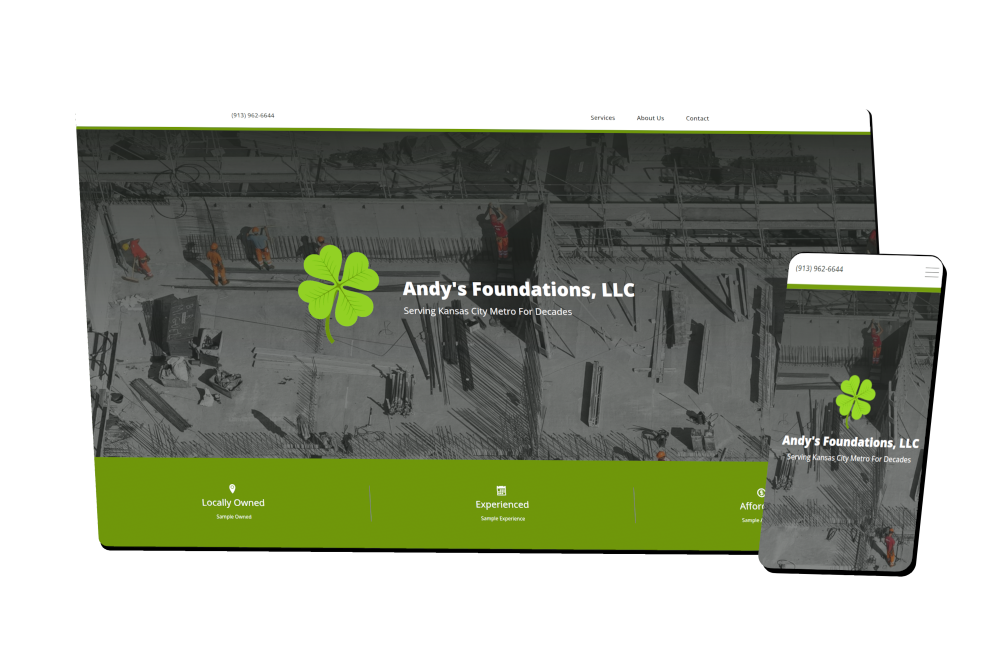
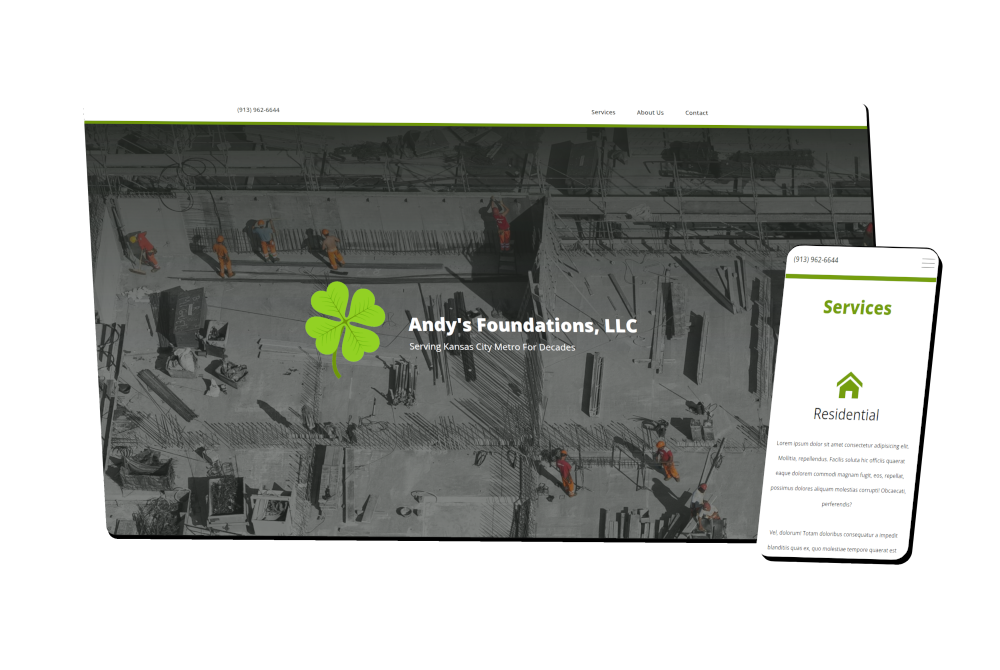
changed andy project image and gradient

Changed region(s): [[0.062, 0.1493, 0.961, 0.8657]]

diff --git a/css/style.css b/css/style.css
@@ -1,1 +1,1 @@
-*,*::before,*::after{margin:0;padding:0;box-sizing:inherit}html{box-sizing:border-box;font-size:62.5%}@media only screen and (max-width: 87.5em){html{font-size:50%}}body{background-color:#f5f5f9;font-family:"Open Sans",sans-serif;line-height:1.6;width:100vw;overflow-x:hidden}li{list-style:none}a{text-decoration:none}::-moz-selection{background-color:#5d0d6e;color:#fff}::selection{background-color:#5d0d6e;color:#fff}.btn{cursor:pointer;width:auto;text-transform:uppercase;text-decoration:none;border:none;transition:all .2s}.btn-work{padding:1.8rem 3rem;letter-spacing:.25rem;text-align:center;font-size:1.5rem;font-weight:600;background-color:#8c13a4;color:#ebebeb;box-shadow:0 .8rem 2.5rem rgba(0, 0, 0, 0.25);border-radius:5rem;transition:all .2s}@media only screen and (max-width: 56.25em){.btn-work{padding:1.8rem 3rem;letter-spacing:0;font-size:1.2rem;font-weight:400}}.btn-contact{padding:1.2rem 2rem;margin:-1.2rem -2rem;text-align:center;box-shadow:0 .8rem 2.5rem rgba(0, 0, 0, 0.25);border-radius:5rem;transition:all .2s}.btn-contact,.btn-contact:link,.btn-contact:visited{background-color:#8c13a4;color:#ebebeb}@media only screen and (max-width: 87.5em){.btn-contact{margin-left:-1.2rem}}@media only screen and (max-width: 37.5em){.btn-contact{padding:0;margin:0}.btn-contact,.btn-contact:link,.btn-contact:visited{background-color:transparent;color:#5d0d6e !important;box-shadow:none;border-radius:0}.btn-contact:hover{transform:none}}.btn-contact:hover{transform:scale(1.1)}.btn:hover{transform:scale(1.05)}@keyframes moveInLeft{0%{opacity:0;transform:translateX(-5rem)}100%{opacity:1;transform:translateX(0)}}.header{display:flex;justify-content:center;position:fixed;width:100%;z-index:200;text-decoration:none;background-color:#f5f5f9}@media only screen and (max-width: 37.5em){.header{z-index:10}}.header-box{display:flex;justify-content:space-between;width:70%}@media only screen and (max-width: 75em){.header-box{width:100%}}@media only screen and (max-width: 37.5em){.header-box{background-color:#f5f5f9}}.header__logo{cursor:pointer;display:flex;align-items:center;height:7rem;width:7rem;margin:1.5rem 0 .5rem;z-index:200;text-decoration:none;font-size:2.5rem;background-image:url(../img/logo_black.png);background-size:cover;background-position:top;transition:all .3s}@media only screen and (max-width: 75em){.header__logo{margin-left:1rem}}@media only screen and (max-width: 37.5em){.header__logo{height:5rem;width:5rem}}.header__logo:hover{transform:scale(1.05)}.header__nav{display:flex;align-items:center;margin:0 10rem}@media only screen and (max-width: 75em){.header__nav{margin:0 1rem}}@media only screen and (max-width: 37.5em){.header__nav{flex-direction:column;justify-content:space-around;position:fixed;width:110%;top:-30%;left:-5%;height:28rem;z-index:-1;text-align:center;font-weight:300;background-color:#fff;box-shadow:0 10px 27px rgba(0, 0, 0, 0.05);border-bottom:1px solid #d6d6d6;transition:.6s ease}.header__nav.active{top:7rem}}@media only screen and (max-width: 25em){.header__nav{height:22rem}}@media only screen and (max-width: 75em){.header__nav * button{margin-right:3rem}}@media only screen and (max-width: 37.5em){.header__nav * button{margin-right:0;margin-left:0}}.header__nav * a{margin-right:6rem;font-size:1.4rem;transition:all .1s;color:#8c13a4}@media only screen and (max-width: 56.25em){.header__nav * a{margin-right:3rem}}@media only screen and (max-width: 37.5em){.header__nav * a{width:100%;margin:auto;color:#5d0d6e;font-size:2.5rem}}.header__hamburger{display:none}@media only screen and (max-width: 37.5em){.header__hamburger{cursor:pointer;display:block;margin:auto 2rem;z-index:20}}.header__hamburger .bar{display:block;width:4rem;height:1px;margin:8px auto;background-color:#16031a;transition:all .3s ease-in-out}.header__hamburger.active .bar:nth-child(2){opacity:0}.header__hamburger.active .bar:nth-child(1){transform:translateY(9px) rotate(45deg)}.header__hamburger.active .bar:nth-child(3){transform:translateY(-9px) rotate(-45deg)}.header-scrolled{border-bottom:1px solid #d6d6d6}.hero{display:flex;justify-content:center;align-items:center;height:100vh;width:100%;background-color:#f5f5f9}@media only screen and (max-width: 87.5em){.hero{flex-direction:column-reverse;height:100vh}}.hero-left{display:flex;flex-direction:column;justify-content:center;align-items:flex-end;height:100%;width:55%}@media only screen and (max-width: 87.5em){.hero-left{align-items:center;width:100%;height:35vh}}@media only screen and (max-width: 37.5em){.hero-left{justify-content:start}}.hero-right{display:flex;flex-direction:column;justify-content:center;align-items:center;height:100%;width:45%;padding:6rem}@media only screen and (max-width: 87.5em){.hero-right{justify-content:center;padding:0 6rem;min-height:80rem;height:auto;width:100%}}@media only screen and (max-width: 37.5em){.hero-right{justify-content:center;padding:0 3rem;min-height:50rem;height:65vh;width:100%}}.hero__title{margin:4rem 0;text-align:right;font-size:6rem;font-weight:300;text-align:right;letter-spacing:.8rem;line-height:1;color:#16031a;animation:moveInLeft .8s ease-out}@media only screen and (max-width: 87.5em){.hero__title{text-align:center}}@media only screen and (max-width: 37.5em){.hero__title{margin:0 0 2rem;font-size:3.6rem;letter-spacing:.5rem}}@media only screen and (max-width: 25em){.hero__title{font-size:3rem;letter-spacing:.4rem}}.hero__subtitle{text-align:right;font-size:2.2rem;font-weight:400;letter-spacing:.2rem;line-height:1;color:#16031a;animation:moveInLeft .8s ease-out .8s;animation-fill-mode:backwards}@media only screen and (max-width: 87.5em){.hero__subtitle{margin:0 1rem;text-align:center}}@media only screen and (max-width: 37.5em){.hero__subtitle{font-size:1.3rem;font-weight:300;letter-spacing:.1rem}}@media only screen and (max-width: 25em){.hero__subtitle{font-size:1.1rem}}.hero__image{height:100%;background-image:url(../img/forest-day2x.png);background-size:contain;background-repeat:no-repeat;background-position:center}@media only screen and (max-width: 87.5em){.hero__image{background-position:center}}@media only screen and (max-width: 37.5em){.hero__image{background-image:url(../img/forest-day1x.png);background-position:bottom center}}.hero__image-box{width:100%;height:100%;padding:6rem 0 3rem}.projects{display:flex;justify-content:center;align-items:center;width:100%;margin:auto;padding:10vh 0}@media only screen and (max-width: 37.5em){.projects{padding:0}}.projects__box{width:60%}@media only screen and (max-width: 56.25em){.projects__box{width:100%;padding:0 2rem}}.projects__card{display:flex;background-color:white;border-radius:12px}.projects__card:not(:last-child){margin-bottom:16rem}@media only screen and (max-width: 37.5em){.projects__card{flex-direction:column}.projects__card:not(:last-child){margin-bottom:6rem}.projects__card:nth-child(2n+1){flex-direction:column-reverse}}.projects__description{width:50%;padding:9.5rem 5rem}@media only screen and (max-width: 56.25em){.projects__description{padding:0;margin:0}}@media only screen and (max-width: 37.5em){.projects__description{width:100%}}.projects__details{display:flex;flex-direction:column;justify-content:space-between;height:100%}@media only screen and (max-width: 56.25em){.projects__details{justify-content:space-evenly}}.projects__details h3{font-size:3.6rem;font-weight:600;letter-spacing:.2rem;color:#16031a}.projects__details h4{margin-bottom:3rem;font-size:1.8rem;font-weight:400;letter-spacing:.2rem;color:#16031a}.projects__details p{font-size:1.4rem;font-weight:200;color:#525252}.projects__title{text-align:center}@media only screen and (max-width: 37.5em){.projects__title{padding-top:4rem}}.projects__image-box{display:flex;position:relative;height:50rem;width:50%;overflow:hidden}@media only screen and (max-width: 37.5em){.projects__image-box{height:32rem;width:100%;margin:auto;border-radius:12px 12px 0 0 !important}}.projects__image-box:nth-child(2n){border-radius:0 12px 12px 0}.projects__image-box:nth-child(2n+1){border-radius:12px 0 0 12px}.projects__image-box:nth-child(2n+1)::before{transform:rotate(180deg)}.projects__image-box::before{content:"";position:absolute;width:100%;height:100%;top:0;right:0;z-index:0;background-image:url(../img/project-pattern.png);background-repeat:no-repeat;background-size:cover;overflow:hidden}.projects__image-box img{z-index:2;width:100%;margin:auto}.projects-buttons{display:flex;flex-direction:column;align-self:center;width:75%}@media only screen and (max-width: 37.5em){.projects-buttons{padding:6rem 0}}.bg-blue{background:linear-gradient(to right, rgb(110, 123, 251), rgb(65, 228, 220))}.bg-green{background:linear-gradient(to right, #18a848, #169960)}.bg-teal{background:linear-gradient(to right, rgb(55, 168, 192), rgb(103, 187, 125))}.revealRight{transform:translateX(15rem);opacity:0;transition:1s all ease}.revealLeft{transform:translateX(-15rem);opacity:0;transition:1s all ease}.revealRight.active,.revealLeft.active{transform:translateY(0);opacity:1}.contact{display:flex;justify-content:center;width:100%;margin:auto}.contact__container{display:flex;justify-content:space-between;width:70%;margin:0 5rem;padding:15vh 0}@media only screen and (max-width: 75em){.contact__container{width:100%}}@media only screen and (max-width: 56.25em){.contact__container{flex-direction:column}}@media only screen and (max-width: 37.5em){.contact__container{height:100vh}}.contact__container-left{flex:1 1 50%;display:flex;flex-direction:column}.contact__container-right{flex:1 1 50%;display:flex;flex-direction:column;align-items:flex-end}.contact-socials{display:flex}.contact-socials a:not(:last-child){margin-right:2rem}.contact-svg{height:3.6rem;margin:1rem 0;transition:all .1s}.contact-svg:hover{scale:1.1}.contact-header h2{margin-bottom:2rem;font-size:3rem;color:#5d0d6e}.contact-header h3{margin-top:6rem;font-size:1.4rem;color:#5d0d6e}.contact-header p{margin:.2rem 6rem 1rem 0;font-size:2rem;font-weight:300}@media only screen and (max-width: 56.25em){.contact-header p{margin:.5rem 0 2rem;font-size:1.6rem}}.contact-form{display:flex;flex-direction:column;width:50rem}@media only screen and (max-width: 56.25em){.contact-form{width:100%}}.contact-form label{font-size:1.5rem}.contact-form input{padding:.8rem;margin-bottom:2rem;border:1px solid #525252;border-radius:5px}.contact-form input:focus{border:1px solid #525252}.contact-form textarea{padding:.8rem;border:1px solid #525252;border-radius:5px}.contact-form textarea:focus{border:1px solid #525252}.contact-form button{margin-top:2rem;border-radius:5px}.footer{display:flex;justify-content:center;background-color:#f5f5f9;color:#16031a}.footer-box{display:flex;justify-content:flex-end;align-items:center;width:70%;margin:2rem 0}@media only screen and (max-width: 75em){.footer-box{width:100%}}.footer__logo-box{height:4rem;width:4rem;margin-left:2rem;text-align:center;background-image:url(../img/logo_tree-dark.png);background-size:cover;background-position:top}@media only screen and (max-width: 56.25em){.footer__logo-box{width:3rem;height:3rem;margin-right:2rem}}.footer__copyright{text-align:center;font-size:1.3rem;color:#16031a}@media only screen and (max-width: 56.25em){.footer__copyright{font-size:1rem}}.toggle-wrapper{background-color:inherit;border:none}.toggle-wrapper .toggle{display:none}.toggle-wrapper .toggle+.toggle-btn{cursor:pointer;-webkit-user-select:none;-moz-user-select:none;user-select:none;display:block;width:8rem;height:4rem;position:relative;outline:0}@media only screen and (max-width: 37.5em){.toggle-wrapper .toggle+.toggle-btn{width:14rem}}.toggle-wrapper .toggle+.toggle-btn:after,.toggle-wrapper .toggle+.toggle-btn:before{content:"";display:block;position:relative;width:50%;height:100%}.toggle-wrapper .toggle+.toggle-btn:after{left:0}.toggle-wrapper .toggle+.toggle-btn:before{display:none}.toggle-wrapper .toggle:checked+.toggle-btn:after{left:50%}.toggle-wrapper .toggle-skewed+.toggle-btn{overflow:hidden;-webkit-backface-visibility:hidden;backface-visibility:hidden;font-family:sans-serif;background:#8c13a4;transform:skew(-10deg);transition:all .2s ease}.toggle-wrapper .toggle-skewed+.toggle-btn:after,.toggle-wrapper .toggle-skewed+.toggle-btn:before{display:inline-block;position:absolute;width:100%;line-height:4rem;text-align:center;font-weight:bold;transform:skew(10deg);text-shadow:0 1px 0 rgba(0, 0, 0, 0.4);transition:all .2s ease}.toggle-wrapper .toggle-skewed+.toggle-btn:after{content:attr(data-tg-on);left:100%;font-weight:normal;color:#8c13a4}@media only screen and (max-width: 37.5em){.toggle-wrapper .toggle-skewed+.toggle-btn:after{font-size:2.5rem;font-weight:300}}.toggle-wrapper .toggle-skewed+.toggle-btn:before{content:attr(data-tg-off);left:0;color:#ebebeb}@media only screen and (max-width: 37.5em){.toggle-wrapper .toggle-skewed+.toggle-btn:before{font-weight:normal;font-size:2.5rem;font-weight:300}}.toggle-wrapper .toggle-skewed+.toggle-btn:active{background:#8c13a4}.toggle-wrapper .toggle-skewed+.toggle-btn:active:before{left:-10%}.toggle-wrapper .toggle-skewed:checked+.toggle-btn{background:#f5f5f9}.toggle-wrapper .toggle-skewed:checked+.toggle-btn:before{left:-100%}.toggle-wrapper .toggle-skewed:checked+.toggle-btn:after{left:0}.toggle-wrapper .toggle-skewed:checked+.toggle-btn:active:after{left:10%}.toggle-wrapper .toggle,.toggle-wrapper .toggle:after,.toggle-wrapper .toggle:before,.toggle-wrapper .toggle *,.toggle-wrapper .toggle *:after,.toggle-wrapper .toggle *:before,.toggle-wrapper .toggle+.toggle-btn{box-sizing:border-box}.toggle-wrapper .toggle::-moz-selection,.toggle-wrapper .toggle:after::-moz-selection,.toggle-wrapper .toggle:before::-moz-selection,.toggle-wrapper .toggle *::-moz-selection,.toggle-wrapper .toggle *:after::-moz-selection,.toggle-wrapper .toggle *:before::-moz-selection,.toggle-wrapper .toggle+.toggle-btn::-moz-selection{background:none}.toggle-wrapper .toggle::selection,.toggle-wrapper .toggle:after::selection,.toggle-wrapper .toggle:before::selection,.toggle-wrapper .toggle *::selection,.toggle-wrapper .toggle *:after::selection,.toggle-wrapper .toggle *:before::selection,.toggle-wrapper .toggle+.toggle-btn::selection{background:none}body.dark-mode{background-color:#16031a;color:#ebebeb}body.dark-mode .header{background-color:#16031a;color:#ebebeb}@media only screen and (max-width: 37.5em){body.dark-mode .header-box{background-color:#16031a}}body.dark-mode .header__logo{background-image:url(../img/logo_white.png)}@media only screen and (max-width: 37.5em){body.dark-mode .header__nav{background-color:#3a2d3d;box-shadow:0 1rem 2rem rgba(0, 0, 0, 0.35);border-bottom:1px solid #525252}}body.dark-mode .header a{color:#ebebeb}body.dark-mode .header__hamburger .bar{background-color:#ebebeb}body.dark-mode .header-scrolled{border-bottom:1px solid #525252}body.dark-mode .hero{background-color:#16031a}body.dark-mode .hero__title{color:#f5f5f9}body.dark-mode .hero__subtitle{color:#ebebeb}body.dark-mode .hero__image{background-image:url(../img/forest-night2x.png)}@media only screen and (max-width: 37.5em){body.dark-mode .hero__image{background-image:url(../img/forest-night1x.png)}}body.dark-mode .contact{background-color:#16031a}body.dark-mode .contact-svg{filter:invert(1)}body.dark-mode .contact-header h2{color:#c524e5}body.dark-mode .contact-header h3{color:#c524e5}body.dark-mode .projects__card{background-color:#3a2d3d}body.dark-mode .projects__details h3{color:#f5f5f9}body.dark-mode .projects__details h4{color:#f5f5f9}body.dark-mode .projects__details p{color:#f5f5f9}body.dark-mode .footer{background-color:#16031a;color:#ebebeb}body.dark-mode .footer__logo-box{background-image:url(../img/logo_tree-light.png)}body.dark-mode .footer__copyright{color:#ebebeb}body.dark-mode .btn-contact{background-color:#5d0d6e;color:#ebebeb}@media only screen and (max-width: 37.5em){body.dark-mode .btn-contact{background-color:transparent;color:#ebebeb !important}}body.dark-mode ::-moz-selection{color:#16031a;background-color:#ebebeb}body.dark-mode ::selection{color:#16031a;background-color:#ebebeb}/*# sourceMappingURL=style.css.map */
+*,*::before,*::after{margin:0;padding:0;box-sizing:inherit}html{box-sizing:border-box;font-size:62.5%}@media only screen and (max-width: 87.5em){html{font-size:50%}}body{background-color:#f5f5f9;font-family:"Open Sans",sans-serif;line-height:1.6;width:100vw;overflow-x:hidden}li{list-style:none}a{text-decoration:none}::-moz-selection{background-color:#5d0d6e;color:#fff}::selection{background-color:#5d0d6e;color:#fff}.btn{cursor:pointer;width:auto;text-transform:uppercase;text-decoration:none;border:none;transition:all .2s}.btn-work{padding:1.8rem 3rem;letter-spacing:.25rem;text-align:center;font-size:1.5rem;font-weight:600;background-color:#8c13a4;color:#ebebeb;box-shadow:0 .8rem 2.5rem rgba(0, 0, 0, 0.25);border-radius:5rem;transition:all .2s}@media only screen and (max-width: 56.25em){.btn-work{padding:1.8rem 3rem;letter-spacing:0;font-size:1.2rem;font-weight:400}}.btn-contact{padding:1.2rem 2rem;margin:-1.2rem -2rem;text-align:center;box-shadow:0 .8rem 2.5rem rgba(0, 0, 0, 0.25);border-radius:5rem;transition:all .2s}.btn-contact,.btn-contact:link,.btn-contact:visited{background-color:#8c13a4;color:#ebebeb}@media only screen and (max-width: 87.5em){.btn-contact{margin-left:-1.2rem}}@media only screen and (max-width: 37.5em){.btn-contact{padding:0;margin:0}.btn-contact,.btn-contact:link,.btn-contact:visited{background-color:transparent;color:#5d0d6e !important;box-shadow:none;border-radius:0}.btn-contact:hover{transform:none}}.btn-contact:hover{transform:scale(1.1)}.btn:hover{transform:scale(1.05)}@keyframes moveInLeft{0%{opacity:0;transform:translateX(-5rem)}100%{opacity:1;transform:translateX(0)}}.header{display:flex;justify-content:center;position:fixed;width:100%;z-index:200;text-decoration:none;background-color:#f5f5f9}@media only screen and (max-width: 37.5em){.header{z-index:10}}.header-box{display:flex;justify-content:space-between;width:70%}@media only screen and (max-width: 75em){.header-box{width:100%}}@media only screen and (max-width: 37.5em){.header-box{background-color:#f5f5f9}}.header__logo{cursor:pointer;display:flex;align-items:center;height:7rem;width:7rem;margin:1.5rem 0 .5rem;z-index:200;text-decoration:none;font-size:2.5rem;background-image:url(../img/logo_black.png);background-size:cover;background-position:top;transition:all .3s}@media only screen and (max-width: 75em){.header__logo{margin-left:1rem}}@media only screen and (max-width: 37.5em){.header__logo{height:5rem;width:5rem}}.header__logo:hover{transform:scale(1.05)}.header__nav{display:flex;align-items:center;margin:0 10rem}@media only screen and (max-width: 75em){.header__nav{margin:0 1rem}}@media only screen and (max-width: 37.5em){.header__nav{flex-direction:column;justify-content:space-around;position:fixed;width:110%;top:-30%;left:-5%;height:28rem;z-index:-1;text-align:center;font-weight:300;background-color:#fff;box-shadow:0 10px 27px rgba(0, 0, 0, 0.05);border-bottom:1px solid #d6d6d6;transition:.6s ease}.header__nav.active{top:7rem}}@media only screen and (max-width: 25em){.header__nav{height:22rem}}@media only screen and (max-width: 75em){.header__nav * button{margin-right:3rem}}@media only screen and (max-width: 37.5em){.header__nav * button{margin-right:0;margin-left:0}}.header__nav * a{margin-right:6rem;font-size:1.4rem;transition:all .1s;color:#8c13a4}@media only screen and (max-width: 56.25em){.header__nav * a{margin-right:3rem}}@media only screen and (max-width: 37.5em){.header__nav * a{width:100%;margin:auto;color:#5d0d6e;font-size:2.5rem}}.header__hamburger{display:none}@media only screen and (max-width: 37.5em){.header__hamburger{cursor:pointer;display:block;margin:auto 2rem;z-index:20}}.header__hamburger .bar{display:block;width:4rem;height:1px;margin:8px auto;background-color:#16031a;transition:all .3s ease-in-out}.header__hamburger.active .bar:nth-child(2){opacity:0}.header__hamburger.active .bar:nth-child(1){transform:translateY(9px) rotate(45deg)}.header__hamburger.active .bar:nth-child(3){transform:translateY(-9px) rotate(-45deg)}.header-scrolled{border-bottom:1px solid #d6d6d6}.hero{display:flex;justify-content:center;align-items:center;height:100vh;width:100%;background-color:#f5f5f9}@media only screen and (max-width: 87.5em){.hero{flex-direction:column-reverse;height:100vh}}.hero-left{display:flex;flex-direction:column;justify-content:center;align-items:flex-end;height:100%;width:55%}@media only screen and (max-width: 87.5em){.hero-left{align-items:center;width:100%;height:35vh}}@media only screen and (max-width: 37.5em){.hero-left{justify-content:start}}.hero-right{display:flex;flex-direction:column;justify-content:center;align-items:center;height:100%;width:45%;padding:6rem}@media only screen and (max-width: 87.5em){.hero-right{justify-content:center;padding:0 6rem;min-height:80rem;height:auto;width:100%}}@media only screen and (max-width: 37.5em){.hero-right{justify-content:center;padding:0 3rem;min-height:50rem;height:65vh;width:100%}}.hero__title{margin:4rem 0;text-align:right;font-size:6rem;font-weight:300;text-align:right;letter-spacing:.8rem;line-height:1;color:#16031a;animation:moveInLeft .8s ease-out}@media only screen and (max-width: 87.5em){.hero__title{text-align:center}}@media only screen and (max-width: 37.5em){.hero__title{margin:0 0 2rem;font-size:3.6rem;letter-spacing:.5rem}}@media only screen and (max-width: 25em){.hero__title{font-size:3rem;letter-spacing:.4rem}}.hero__subtitle{text-align:right;font-size:2.2rem;font-weight:400;letter-spacing:.2rem;line-height:1;color:#16031a;animation:moveInLeft .8s ease-out .8s;animation-fill-mode:backwards}@media only screen and (max-width: 87.5em){.hero__subtitle{margin:0 1rem;text-align:center}}@media only screen and (max-width: 37.5em){.hero__subtitle{font-size:1.3rem;font-weight:300;letter-spacing:.1rem}}@media only screen and (max-width: 25em){.hero__subtitle{font-size:1.1rem}}.hero__image{height:100%;background-image:url(../img/forest-day2x.png);background-size:contain;background-repeat:no-repeat;background-position:center}@media only screen and (max-width: 87.5em){.hero__image{background-position:center}}@media only screen and (max-width: 37.5em){.hero__image{background-image:url(../img/forest-day1x.png);background-position:bottom center}}.hero__image-box{width:100%;height:100%;padding:6rem 0 3rem}.projects{display:flex;justify-content:center;align-items:center;width:100%;margin:auto;padding:10vh 0}@media only screen and (max-width: 37.5em){.projects{padding:0}}.projects__box{width:60%}@media only screen and (max-width: 75em){.projects__box{width:80%}}@media only screen and (max-width: 56.25em){.projects__box{width:100%;padding:0 2rem}}.projects__card{display:flex;background-color:white;border-radius:12px}.projects__card:not(:last-child){margin-bottom:16rem}@media only screen and (max-width: 37.5em){.projects__card{flex-direction:column}.projects__card:not(:last-child){margin-bottom:6rem}.projects__card:nth-child(2n+1){flex-direction:column-reverse}}.projects__description{width:50%;padding:9.5rem 5rem}@media only screen and (max-width: 56.25em){.projects__description{padding:0;margin:0}}@media only screen and (max-width: 37.5em){.projects__description{width:100%}}.projects__details{display:flex;flex-direction:column;justify-content:space-between;height:100%}@media only screen and (max-width: 56.25em){.projects__details{justify-content:space-evenly}}.projects__details h3{font-size:3.6rem;font-weight:600;letter-spacing:.2rem;color:#16031a}@media only screen and (max-width: 75em){.projects__details h3{font-size:3rem}}@media only screen and (max-width: 56.25em){.projects__details h3{font-size:3.2rem}}@media only screen and (max-width: 37.5em){.projects__details h3{font-size:3.6rem}}.projects__details h4{margin-bottom:3rem;font-size:1.8rem;font-weight:400;letter-spacing:.2rem;color:#16031a}.projects__details p{font-size:1.4rem;font-weight:200;color:#525252}.projects__title{text-align:center}@media only screen and (max-width: 37.5em){.projects__title{padding-top:4rem}}.projects__image-box{display:flex;position:relative;height:50rem;width:50%;overflow:hidden}@media only screen and (max-width: 37.5em){.projects__image-box{height:32rem;width:100%;margin:auto;border-radius:12px 12px 0 0 !important}}.projects__image-box:nth-child(2n){border-radius:0 12px 12px 0}.projects__image-box:nth-child(2n+1){border-radius:12px 0 0 12px}.projects__image-box:nth-child(2n+1)::before{transform:rotate(180deg)}.projects__image-box::before{content:"";position:absolute;width:100%;height:100%;top:0;right:0;z-index:0;background-image:url(../img/project-pattern.png);background-repeat:no-repeat;background-size:cover;overflow:hidden}.projects__image-box img{z-index:2;width:100%;margin:auto}.projects-buttons{display:flex;flex-direction:column;align-self:center;width:75%}@media only screen and (max-width: 37.5em){.projects-buttons{padding:6rem 0}}.bg-blue{background:linear-gradient(to right, rgb(110, 123, 251), rgb(65, 228, 220))}.bg-green{background:linear-gradient(to right, #0ba360, #3cba92)}.bg-teal{background:linear-gradient(to right, rgb(55, 168, 192), rgb(103, 187, 125))}.revealRight{transform:translateX(15rem);opacity:0;transition:1s all ease}.revealLeft{transform:translateX(-15rem);opacity:0;transition:1s all ease}.revealRight.active,.revealLeft.active{transform:translateY(0);opacity:1}.contact{display:flex;justify-content:center;width:100%;margin:auto}.contact__container{display:flex;justify-content:space-between;width:70%;margin:0 5rem;padding:15vh 0}@media only screen and (max-width: 75em){.contact__container{width:100%}}@media only screen and (max-width: 56.25em){.contact__container{flex-direction:column}}@media only screen and (max-width: 37.5em){.contact__container{height:100vh}}.contact__container-left{flex:1 1 50%;display:flex;flex-direction:column}.contact__container-right{flex:1 1 50%;display:flex;flex-direction:column;align-items:flex-end}.contact-socials{display:flex}.contact-socials a:not(:last-child){margin-right:2rem}.contact-svg{height:3.6rem;margin:1rem 0;transition:all .1s}.contact-svg:hover{scale:1.1}.contact-header h2{margin-bottom:2rem;font-size:3rem;color:#5d0d6e}.contact-header h3{margin-top:6rem;font-size:1.4rem;color:#5d0d6e}.contact-header p{margin:.2rem 6rem 1rem 0;font-size:2rem;font-weight:300}@media only screen and (max-width: 56.25em){.contact-header p{margin:.5rem 0 2rem;font-size:1.6rem}}.contact-form{display:flex;flex-direction:column;width:50rem}@media only screen and (max-width: 56.25em){.contact-form{width:100%}}.contact-form label{font-size:1.5rem}.contact-form input{padding:.8rem;margin-bottom:2rem;border:1px solid #525252;border-radius:5px}.contact-form input:focus{border:1px solid #525252}.contact-form textarea{padding:.8rem;border:1px solid #525252;border-radius:5px}.contact-form textarea:focus{border:1px solid #525252}.contact-form button{margin-top:2rem;border-radius:5px}.footer{display:flex;justify-content:center;background-color:#f5f5f9;color:#16031a}.footer-box{display:flex;justify-content:flex-end;align-items:center;width:70%;margin:2rem 0}@media only screen and (max-width: 75em){.footer-box{width:100%}}.footer__logo-box{height:4rem;width:4rem;margin-left:2rem;text-align:center;background-image:url(../img/logo_tree-dark.png);background-size:cover;background-position:top}@media only screen and (max-width: 56.25em){.footer__logo-box{width:3rem;height:3rem;margin-right:2rem}}.footer__copyright{text-align:center;font-size:1.3rem;color:#16031a}@media only screen and (max-width: 56.25em){.footer__copyright{font-size:1rem}}.toggle-wrapper{background-color:inherit;border:none}.toggle-wrapper .toggle{display:none}.toggle-wrapper .toggle+.toggle-btn{cursor:pointer;-webkit-user-select:none;-moz-user-select:none;user-select:none;display:block;width:8rem;height:4rem;position:relative;outline:0}@media only screen and (max-width: 37.5em){.toggle-wrapper .toggle+.toggle-btn{width:14rem}}.toggle-wrapper .toggle+.toggle-btn:after,.toggle-wrapper .toggle+.toggle-btn:before{content:"";display:block;position:relative;width:50%;height:100%}.toggle-wrapper .toggle+.toggle-btn:after{left:0}.toggle-wrapper .toggle+.toggle-btn:before{display:none}.toggle-wrapper .toggle:checked+.toggle-btn:after{left:50%}.toggle-wrapper .toggle-skewed+.toggle-btn{overflow:hidden;-webkit-backface-visibility:hidden;backface-visibility:hidden;font-family:sans-serif;background:#8c13a4;transform:skew(-10deg);transition:all .2s ease}.toggle-wrapper .toggle-skewed+.toggle-btn:after,.toggle-wrapper .toggle-skewed+.toggle-btn:before{display:inline-block;position:absolute;width:100%;line-height:4rem;text-align:center;font-weight:bold;transform:skew(10deg);text-shadow:0 1px 0 rgba(0, 0, 0, 0.4);transition:all .2s ease}.toggle-wrapper .toggle-skewed+.toggle-btn:after{content:attr(data-tg-on);left:100%;font-weight:normal;color:#8c13a4}@media only screen and (max-width: 37.5em){.toggle-wrapper .toggle-skewed+.toggle-btn:after{font-size:2.5rem;font-weight:300}}.toggle-wrapper .toggle-skewed+.toggle-btn:before{content:attr(data-tg-off);left:0;color:#ebebeb}@media only screen and (max-width: 37.5em){.toggle-wrapper .toggle-skewed+.toggle-btn:before{font-weight:normal;font-size:2.5rem;font-weight:300}}.toggle-wrapper .toggle-skewed+.toggle-btn:active{background:#8c13a4}.toggle-wrapper .toggle-skewed+.toggle-btn:active:before{left:-10%}.toggle-wrapper .toggle-skewed:checked+.toggle-btn{background:#f5f5f9}.toggle-wrapper .toggle-skewed:checked+.toggle-btn:before{left:-100%}.toggle-wrapper .toggle-skewed:checked+.toggle-btn:after{left:0}.toggle-wrapper .toggle-skewed:checked+.toggle-btn:active:after{left:10%}.toggle-wrapper .toggle,.toggle-wrapper .toggle:after,.toggle-wrapper .toggle:before,.toggle-wrapper .toggle *,.toggle-wrapper .toggle *:after,.toggle-wrapper .toggle *:before,.toggle-wrapper .toggle+.toggle-btn{box-sizing:border-box}.toggle-wrapper .toggle::-moz-selection,.toggle-wrapper .toggle:after::-moz-selection,.toggle-wrapper .toggle:before::-moz-selection,.toggle-wrapper .toggle *::-moz-selection,.toggle-wrapper .toggle *:after::-moz-selection,.toggle-wrapper .toggle *:before::-moz-selection,.toggle-wrapper .toggle+.toggle-btn::-moz-selection{background:none}.toggle-wrapper .toggle::selection,.toggle-wrapper .toggle:after::selection,.toggle-wrapper .toggle:before::selection,.toggle-wrapper .toggle *::selection,.toggle-wrapper .toggle *:after::selection,.toggle-wrapper .toggle *:before::selection,.toggle-wrapper .toggle+.toggle-btn::selection{background:none}body.dark-mode{background-color:#16031a;color:#ebebeb}body.dark-mode .header{background-color:#16031a;color:#ebebeb}@media only screen and (max-width: 37.5em){body.dark-mode .header-box{background-color:#16031a}}body.dark-mode .header__logo{background-image:url(../img/logo_white.png)}@media only screen and (max-width: 37.5em){body.dark-mode .header__nav{background-color:#3a2d3d;box-shadow:0 1rem 2rem rgba(0, 0, 0, 0.35);border-bottom:1px solid #525252}}body.dark-mode .header a{color:#ebebeb}body.dark-mode .header__hamburger .bar{background-color:#ebebeb}body.dark-mode .header-scrolled{border-bottom:1px solid #525252}body.dark-mode .hero{background-color:#16031a}body.dark-mode .hero__title{color:#f5f5f9}body.dark-mode .hero__subtitle{color:#ebebeb}body.dark-mode .hero__image{background-image:url(../img/forest-night2x.png)}@media only screen and (max-width: 37.5em){body.dark-mode .hero__image{background-image:url(../img/forest-night1x.png)}}body.dark-mode .contact{background-color:#16031a}body.dark-mode .contact-svg{filter:invert(1)}body.dark-mode .contact-header h2{color:#c524e5}body.dark-mode .contact-header h3{color:#c524e5}body.dark-mode .projects__card{background-color:#3a2d3d}body.dark-mode .projects__details h3{color:#f5f5f9}body.dark-mode .projects__details h4{color:#f5f5f9}body.dark-mode .projects__details p{color:#f5f5f9}body.dark-mode .footer{background-color:#16031a;color:#ebebeb}body.dark-mode .footer__logo-box{background-image:url(../img/logo_tree-light.png)}body.dark-mode .footer__copyright{color:#ebebeb}body.dark-mode .btn-contact{background-color:#5d0d6e;color:#ebebeb}@media only screen and (max-width: 37.5em){body.dark-mode .btn-contact{background-color:transparent;color:#ebebeb !important}}body.dark-mode ::-moz-selection{color:#16031a;background-color:#ebebeb}body.dark-mode ::selection{color:#16031a;background-color:#ebebeb}/*# sourceMappingURL=style.css.map */

diff --git a/sass/_projects.scss b/sass/_projects.scss
@@ -17,6 +17,10 @@
         //Spacing
         width: 60%;
 
+        @media only screen and (max-width: $bp-large) {
+            //Spacing
+            width: 80%;
+        }
         @media only screen and (max-width: $bp-medium) {
             //Spacing
             width: 100%;
@@ -91,6 +95,19 @@
 
             //Color Styling
             color: $background-color-dark;
+
+            @media only screen and (max-width: $bp-large) {
+                //Font Styling
+                font-size: 3rem;
+            }
+            @media only screen and (max-width: $bp-medium) {
+                //Font Styling
+                font-size: 3.2rem;
+            }
+            @media only screen and (max-width: $bp-small) {
+                //Font Styling
+                font-size: 3.6rem;
+            }
         }
         h4 {
             //Spacing
@@ -211,7 +228,7 @@
 }
 .bg-green {
     //Color Styling
-    background: linear-gradient(to right, #18a848, #169960);
+    background: linear-gradient(to right, #0ba360, #3cba92);
 }
 .bg-teal {
     //Color Styling

diff --git a/index.html b/index.html
@@ -146,7 +146,7 @@
 
             <!-- Links and Header -->
 
-            <div class="contact__container-left">
+            <div class="contact__container-left revealLeft">
                 <div class="contact-header">
                     <h2>Get in touch</h2>
                     <p>I'm always happy to hear about exciting opportunities, and build valuable connections.</p>
@@ -168,7 +168,7 @@
 
             <!-- Contact Form -->
 
-            <div class="contact__container-right">
+            <div class="contact__container-right revealRight">
                 <form class="contact-form" action="https://formsubmit.co/31f93465b64fc3bf45697f90e9728cdd" method="post"
                     autocomplete="off" id="contactForm">
                     <input type="hidden" name="form_type" value="contact">
